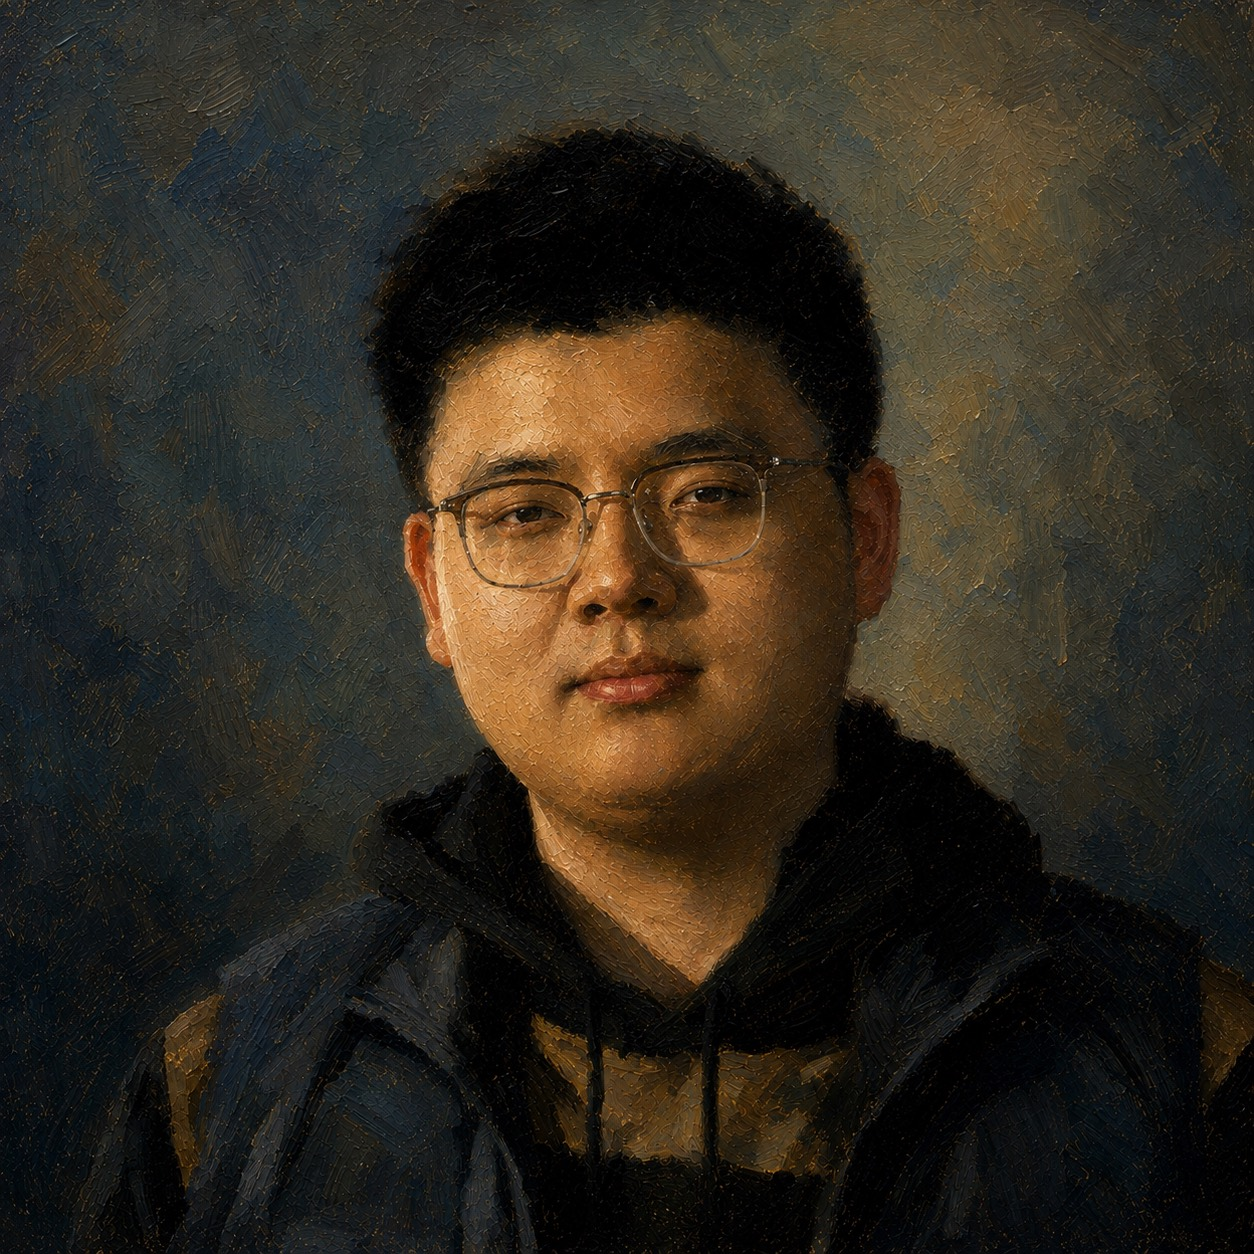
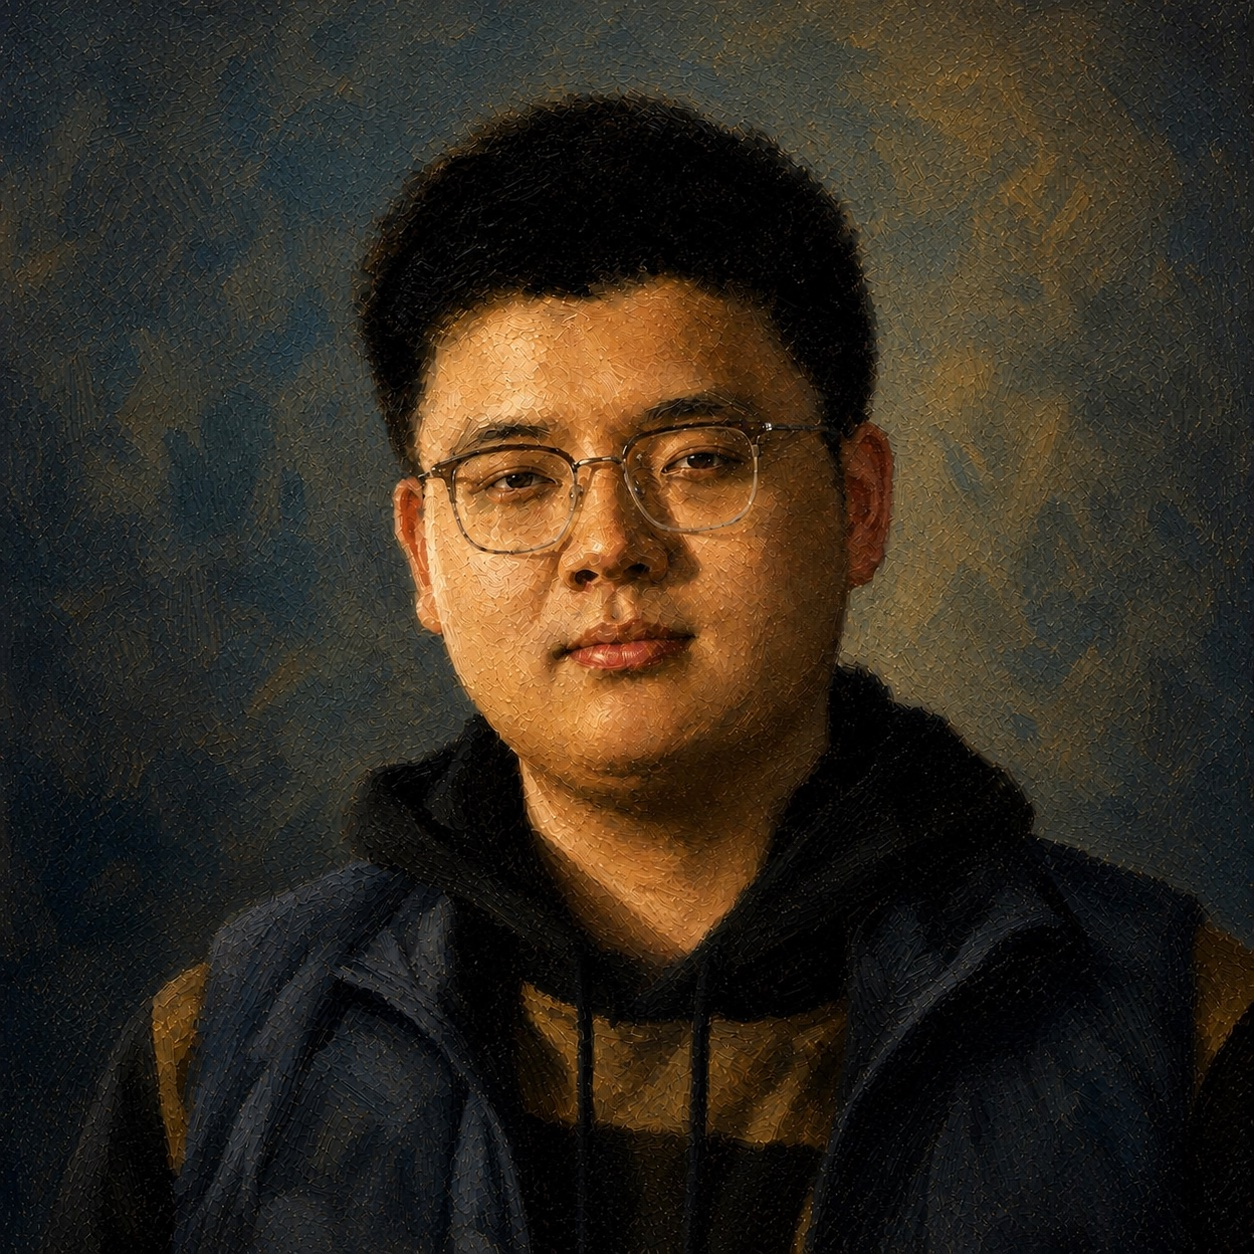
Refine homepage portrait presentation

diff --git a/src/styles/global.css b/src/styles/global.css
@@ -181,12 +181,11 @@ ul {
 .home-intro-grid {
   display: grid;
   max-width: 54rem;
-  gap: 1.75rem;
 }
 
 .home-portrait {
-  width: 8.75rem;
-  margin: 0;
+  width: 7.5rem;
+  margin: 0 0 1.5rem;
 }
 
 .home-portrait img {
@@ -196,7 +195,7 @@ ul {
   border: 1px solid var(--color-line);
   border-radius: 0.35rem;
   background: var(--color-surface-muted);
-  box-shadow: 0 1rem 2.5rem rgb(36 35 32 / 12%);
+  box-shadow: 0 0.75rem 2rem rgb(36 35 32 / 8%);
 }
 
 .home-intro p {
@@ -567,19 +566,30 @@ ul {
 @media (min-width: 42rem) {
   .home-intro-grid {
     grid-template-columns: minmax(0, 1fr) clamp(10.5rem, 20vw, 12.5rem);
-    align-items: center;
-    gap: clamp(2.5rem, 6vw, 4rem);
+    column-gap: clamp(2.5rem, 6vw, 4rem);
   }
 
-  .home-intro-copy {
+  .home-intro-grid .home-kicker {
     grid-column: 1;
     grid-row: 1;
   }
 
+  .home-intro-grid > h1 {
+    grid-column: 1;
+    grid-row: 2;
+  }
+
+  .home-intro-details {
+    grid-column: 1;
+    grid-row: 3;
+  }
+
   .home-portrait {
     grid-column: 2;
-    grid-row: 1;
+    grid-row: 1 / 4;
     width: 100%;
+    margin: 0;
+    align-self: center;
     justify-self: end;
   }
 

diff --git a/docs/IMPLEMENTATION_PLAN.md b/docs/IMPLEMENTATION_PLAN.md
@@ -96,7 +96,7 @@
 - Research 和 Projects 保持一级导航，分别服务学术访客与 data science / machine learning 招聘者。
 - 首页精选工作使用带角色和证据链接的文字列表；完整贡献、方法和链接继续保留在 Projects 页面。
 - 采用温和的纸张色背景、正文衬线字体、导航与标题无衬线字体和单一低饱和绿色强调色。
-- 首页使用用户于 2026-08-10 明确授权的个人肖像，保持小尺寸并与文字介绍并排；不使用占位人物图或额外生成的头像。
+- 首页使用用户于 2026-08-10 明确授权的个人肖像；桌面端保持小尺寸并与文字介绍并排，手机端在研究标签与姓名后展示更小的头像；不使用占位人物图。
 - Poetry 因已有真实内容而提供入口；其他 Writing / Posts 类型继续只保留内容模型。
 
 ## 6. 实施阶段与验证点

diff --git a/docs/CONTENT_INVENTORY.md b/docs/CONTENT_INVENTORY.md
@@ -10,7 +10,7 @@
 - [ ] 40–70 词短简介，供首页使用。
 - [ ] 120–200 词完整简介，供 About 使用。
 - [ ] 所在城市/时区是否公开。
-- [x] 一张有公开授权的头像；2026-08-10 已提供并确认用于首页，保留方形构图。
+- [x] 一张有公开授权的头像；2026-08-10 已提供并确认用于首页，保留方形构图；2026-08-11 完成保真裁切与明暗优化。
 - [ ] 姓名发音、代词等可选信息是否公开。
 
 ## 2. 联系方式与个人资料（首批必须）
